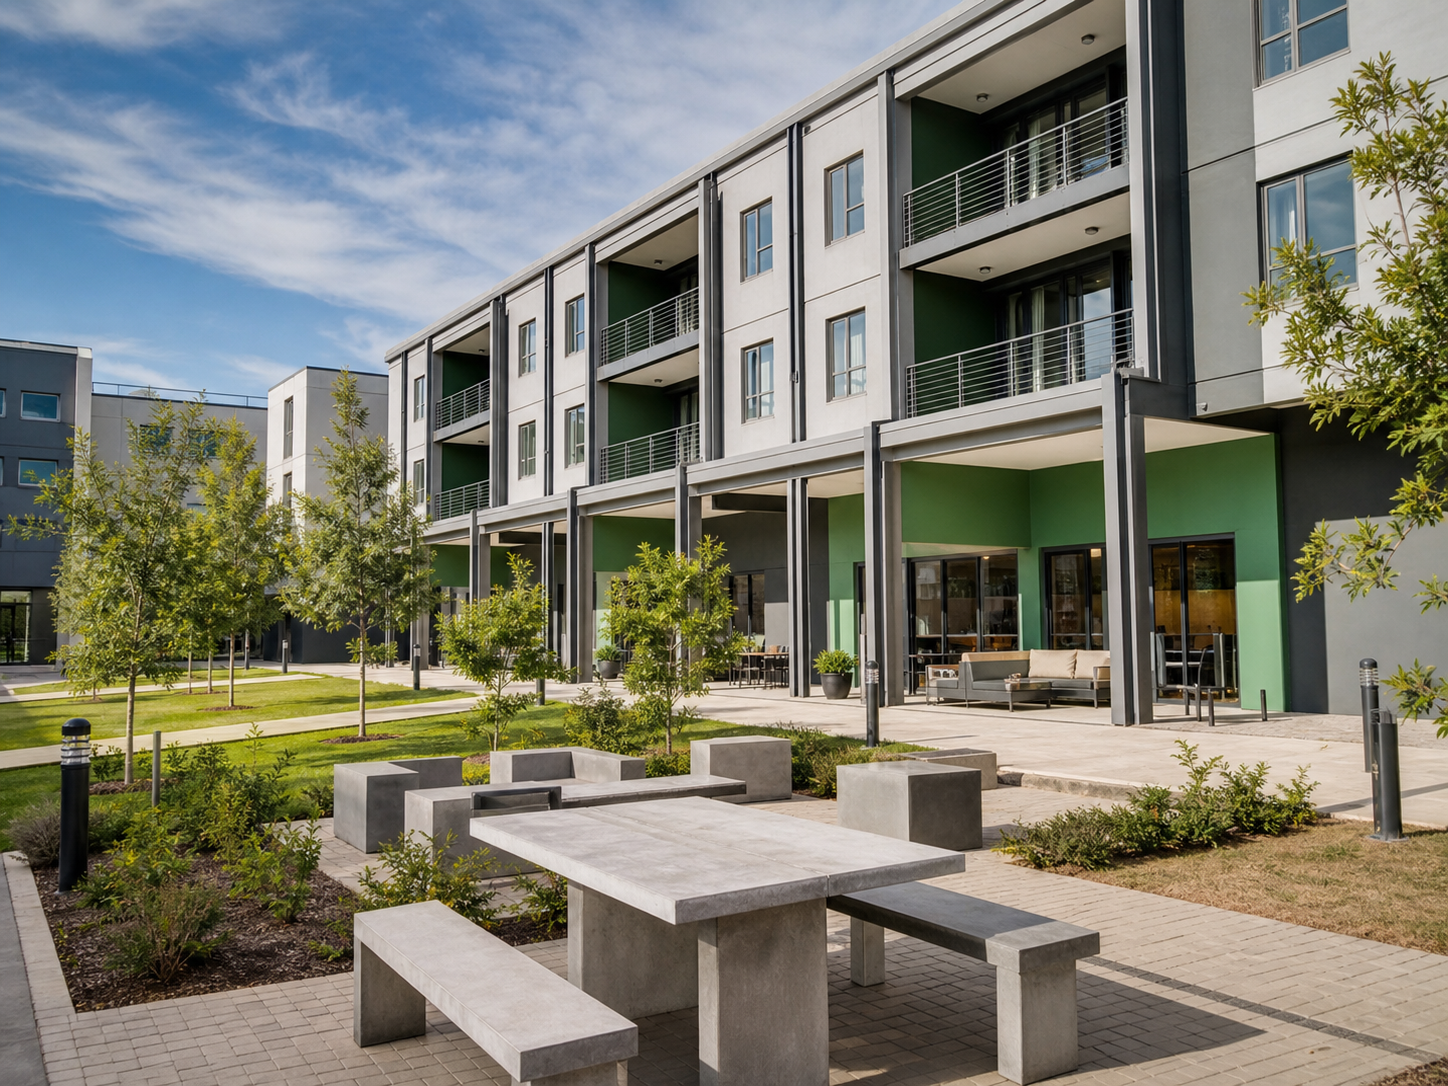
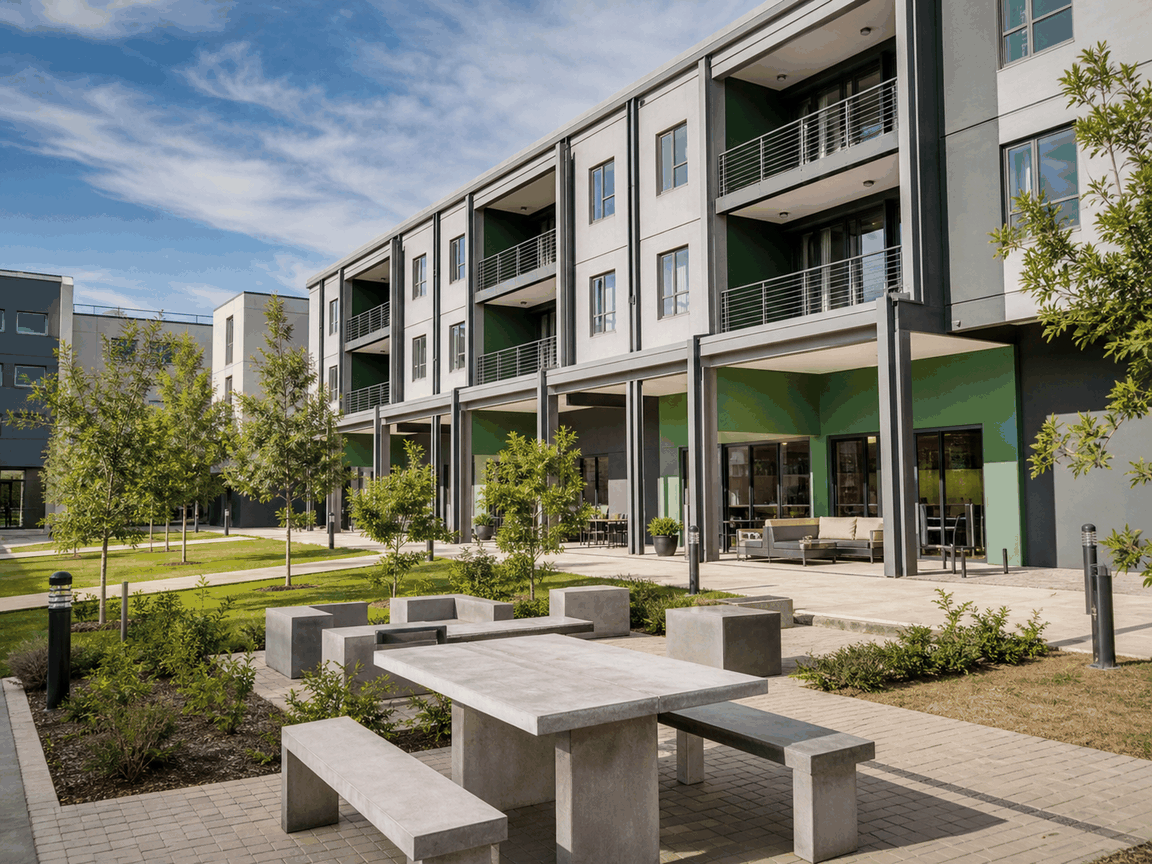
Optimize UNINEST images and Western Cape location filtering

Changed region(s): [[0.875, 0.4688, 0.9062, 0.5312], [0.0, 0.4062, 0.0312, 0.4375], [0.0, 0.3438, 0.0312, 0.375]]

diff --git a/Landlord/listings.html b/Landlord/listings.html
@@ -90,9 +90,71 @@
                 <input type="text" id="propertyLocation" name="location" maxlength="255" autocomplete="street-address" placeholder="Street number, street, suburb, city, postal code, country" required />
               </label>
 
+              <p class="listing-location-hint">Select the city and area for accurate student search results. Enter the full street address above for the map. Current focus: Western Cape.</p>
               <div class="field-pair">
-                <label>Suburb<input name="suburb" maxlength="100" autocomplete="address-level3" /></label>
-                <label>City<input name="city" maxlength="100" autocomplete="address-level2" /></label>
+                <label>City
+                  <select id="listingCityChoice" required aria-label="Listing city">
+                    <option value="">Select a city</option>
+                    <option>Cape Town</option><option>Stellenbosch</option><option>Paarl</option>
+                    <option>Wellington</option><option>George</option>
+                    <option value="__other">Other city...</option>
+                  </select>
+                  <input id="listingCityOther" type="text" maxlength="100" placeholder="Enter city" hidden />
+                  <input id="listingCityValue" type="hidden" name="city" value="" />
+                </label>
+                <label>Area / suburb
+                  <select id="listingSuburbChoice" required aria-label="Listing area or suburb">
+                    <option value="">Select an area</option>
+                    <optgroup label="Cape Town City Bowl & Atlantic Seaboard">
+                      <option>Cape Town City Centre (CBD)</option>
+                      <option>Foreshore</option>
+                      <option>Zonnebloem (District Six)</option>
+                      <option>Woodstock</option>
+                      <option>Gardens</option>
+                      <option>Vredehoek</option>
+                      <option>Oranjezicht</option>
+                      <option>Green Point</option>
+                      <option>Sea Point</option>
+                    </optgroup>
+                    <optgroup label="Cape Town Southern Suburbs">
+                      <option>Salt River</option>
+                      <option>Observatory</option>
+                      <option>Mowbray</option>
+                      <option>Rosebank</option>
+                      <option>Rondebosch</option>
+                      <option>Newlands</option>
+                      <option>Claremont</option>
+                      <option>Kenilworth</option>
+                      <option>Wynberg</option>
+                    </optgroup>
+                    <optgroup label="Cape Town Northern Suburbs">
+                      <option>Bellville</option>
+                      <option>Bellville South</option>
+                      <option>Belhar</option>
+                      <option>Parow</option>
+                      <option>Oakdale</option>
+                      <option>Goodwood</option>
+                      <option>Tygervalley</option>
+                      <option>Durbanville</option>
+                    </optgroup>
+                    <optgroup label="Cape Town West Coast & Helderberg">
+                      <option>Milnerton</option>
+                      <option>Table View</option>
+                      <option>Parklands</option>
+                      <option>Somerset West</option>
+                      <option>Strand</option>
+                    </optgroup>
+                    <optgroup label="Greater Western Cape (Outside Cape Town)">
+                      <option>Stellenbosch</option>
+                      <option>Paarl</option>
+                      <option>Wellington</option>
+                      <option>George</option>
+                    </optgroup>
+                    <option value="__other">Other area...</option>
+                  </select>
+                  <input id="listingSuburbOther" type="text" maxlength="100" placeholder="Enter suburb or area" hidden />
+                  <input id="listingSuburbValue" type="hidden" name="suburb" value="" />
+                </label>
               </div>
               <label>Distance to campus<span class="input-unit suffix"><input name="campusDistance" type="number" min="0" max="99999.99" step="0.01" /><span>km</span></span></label>
               <div id="listingAddressMap"></div>
@@ -177,6 +239,63 @@
     </div>
 
     <script src="script.js"></script>
+    <script>
+    (() => {
+      const form = document.getElementById('propertyForm');
+      if (!form) return;
+      for (const key of ['City', 'Suburb']) {
+        const choice = document.getElementById('listing' + key + 'Choice');
+        const other = document.getElementById('listing' + key + 'Other');
+        const stored = document.getElementById('listing' + key + 'Value');
+        const sync = () => {
+          const custom = choice.value === '__other';
+          other.hidden = !custom;
+          other.required = custom;
+          other.disabled = !custom;
+          const value = (custom ? other.value : choice.value).trim();
+          if (stored.value !== value) {
+            stored.value = value;
+            stored.dispatchEvent(new Event('input', { bubbles: true }));
+          }
+        };
+        const restore = () => {
+          const saved = stored.value.trim();
+          const match = Array.from(choice.options).find(o => o.value === saved && saved);
+          choice.value = match ? saved : saved ? '__other' : '';
+          other.value = match ? '' : saved;
+          sync();
+        };
+        choice.addEventListener('change', () => {
+          // The four Cape Town regions belong to Cape Town; outside towns
+          // use their own city names. Keep the street address independent.
+          if (key === 'Suburb' && choice.value && choice.value !== '__other') {
+            const outside = new Set(['Stellenbosch', 'Paarl', 'Wellington', 'George']);
+            const inferredCity = outside.has(choice.value) ? choice.value : 'Cape Town';
+            const cityChoice = document.getElementById('listingCityChoice');
+            const cityValue = document.getElementById('listingCityValue');
+            if (cityValue.value !== inferredCity) {
+              cityChoice.value = inferredCity;
+              cityChoice.dispatchEvent(new Event('change'));
+            }
+          }
+          sync();
+          if (choice.value === '__other') other.focus();
+        });
+        other.addEventListener('input', sync);
+        form.addEventListener('listing:loaded', restore);
+        form.addEventListener('reset', () => setTimeout(() => { stored.value = ''; restore(); }, 0));
+        restore();
+      }
+      form.addEventListener('submit', e => {
+        if (!form.elements.city.value.trim() || !form.elements.suburb.value.trim()) {
+          e.preventDefault();
+          e.stopImmediatePropagation();
+          const empty = !form.elements.city.value.trim() ? 'City' : 'Suburb';
+          document.getElementById('listing' + empty + 'Choice').focus();
+        }
+      }, true);
+    })();
+    </script>
     <script src="gallery-upload.js"></script>
     <script src="../maps.js"></script>
     <script src="../portal-identity.js?v=20260822-auth"></script>

diff --git a/HomePage/search.html b/HomePage/search.html
@@ -90,6 +90,52 @@
 
           <select id="locationFilter">
             <option value="">All areas</option>
+            <option>Cape Town</option>
+            <optgroup label="Cape Town City Bowl & Atlantic Seaboard">
+              <option>Cape Town City Centre (CBD)</option>
+              <option>Foreshore</option>
+              <option>Zonnebloem (District Six)</option>
+              <option>Woodstock</option>
+              <option>Gardens</option>
+              <option>Vredehoek</option>
+              <option>Oranjezicht</option>
+              <option>Green Point</option>
+              <option>Sea Point</option>
+            </optgroup>
+            <optgroup label="Cape Town Southern Suburbs">
+              <option>Salt River</option>
+              <option>Observatory</option>
+              <option>Mowbray</option>
+              <option>Rosebank</option>
+              <option>Rondebosch</option>
+              <option>Newlands</option>
+              <option>Claremont</option>
+              <option>Kenilworth</option>
+              <option>Wynberg</option>
+            </optgroup>
+            <optgroup label="Cape Town Northern Suburbs">
+              <option>Bellville</option>
+              <option>Bellville South</option>
+              <option>Belhar</option>
+              <option>Parow</option>
+              <option>Oakdale</option>
+              <option>Goodwood</option>
+              <option>Tygervalley</option>
+              <option>Durbanville</option>
+            </optgroup>
+            <optgroup label="Cape Town West Coast & Helderberg">
+              <option>Milnerton</option>
+              <option>Table View</option>
+              <option>Parklands</option>
+              <option>Somerset West</option>
+              <option>Strand</option>
+            </optgroup>
+            <optgroup label="Greater Western Cape (Outside Cape Town)">
+              <option>Stellenbosch</option>
+              <option>Paarl</option>
+              <option>Wellington</option>
+              <option>George</option>
+            </optgroup>
           </select>
         </div>
 

diff --git a/Landlord/listing-form.css b/Landlord/listing-form.css
@@ -47,3 +47,6 @@
 .photo-count { margin:0; color:#42594e; font-size:14px; }
 #listingStatus { white-space:normal; overflow-wrap:anywhere; }
 @media(max-width:599px) { #propertyForm .field-pair { grid-template-columns:1fr; } #propertyForm .form-section { padding:16px; } .photo-thumbs { grid-template-columns:repeat(3,minmax(0,1fr)); } .classic-section.listing-editor { width:100%; } }
+
+#propertyForm .listing-location-hint { margin:0; color:#42594e; font-size:13px; line-height:1.5; }
+#propertyForm input[hidden] { display:none !important; }

diff --git a/HomePage/public-listings.js b/HomePage/public-listings.js
@@ -147,7 +147,7 @@
     const select = document.getElementById("locationFilter");
     if (!select || select.dataset.loaded === "true") return;
     (locations || []).forEach((location) => {
-      if (Array.from(select.options).some(option => option.value === location)) return;
+      if (Array.from(select.options).some(option => option.value.toLowerCase() === String(location).toLowerCase())) return;
       const option = document.createElement("option");
       option.value = location;
       option.textContent = location;

diff --git a/HomePage/java-servlets/com/uninest/servlets/publicpages/PublicListingsServlet.java b/HomePage/java-servlets/com/uninest/servlets/publicpages/PublicListingsServlet.java
@@ -54,17 +54,37 @@ public class PublicListingsServlet extends HttpServlet {
                 where.append("AND (LOWER(r.room_number) LIKE ? "
                         + "OR LOWER(r.location) LIKE ? "
                         + "OR LOWER(r.description) LIKE ? "
+                        + "OR LOWER(COALESCE(d.city, '')) LIKE ? "
+                        + "OR LOWER(COALESCE(d.suburb, '')) LIKE ? "
                         + "OR LOWER(REPLACE(r.room_type, '_', ' ')) LIKE ?) ");
                 String term = "%" + search.toLowerCase() + "%";
-                params.add(term);
-                params.add(term);
-                params.add(term);
-                params.add(term);
+                for (int i = 0; i < 6; i++) params.add(term);
             }
 
             if (!location.isEmpty()) {
-                where.append("AND LOWER(r.location) = ? ");
-                params.add(location.toLowerCase());
+                // Search canonical city/suburb values first. For older records with no
+                // structured fields, match a whole comma-separated address segment:
+                // "Bellville" must NOT match an address in "Bellville South".
+                String area = location.trim().toLowerCase(java.util.Locale.ROOT);
+                boolean city = "cape town".equals(area) || "stellenbosch".equals(area)
+                        || "paarl".equals(area) || "wellington".equals(area)
+                        || "george".equals(area);
+                where.append("AND (LOWER(TRIM(COALESCE(d.suburb, ''))) = ? ");
+                params.add(area);
+                if (city) {
+                    where.append("OR LOWER(TRIM(COALESCE(d.city, ''))) = ? ");
+                    params.add(area);
+                }
+                String normalizedAddress = "CONCAT(',', REPLACE(LOWER(TRIM(COALESCE(r.location, ''))), ', ', ','), ',')";
+                where.append("OR LOCATE(CONCAT(',', ?, ','), " + normalizedAddress + ") > 0 ");
+                params.add(area);
+                // Preserve the old Cape Town CBD label after switching to the clearer
+                // canonical name in the dropdown. Never rewrite saved listing data.
+                if ("cape town city centre (cbd)".equals(area)) {
+                    where.append("OR LOWER(TRIM(COALESCE(d.suburb, ''))) = 'cape town cbd' "
+                            + "OR LOCATE(',cape town cbd,', " + normalizedAddress + ") > 0 ");
+                }
+                where.append(") ");
             }
             if (!type.isEmpty()) {
                 where.append("AND r.room_type = ? ");
@@ -111,6 +131,7 @@ public class PublicListingsServlet extends HttpServlet {
                     + "WHERE rv.room_id = r.room_id AND rv.review_type = 'room_review') AS rating_count, "
                     + "GROUP_CONCAT(a.amenity_name ORDER BY a.amenity_name SEPARATOR ', ') AS amenities "
                     + "FROM rooms r "
+                    + "LEFT JOIN listing_details d ON d.room_id = r.room_id "
                     + "LEFT JOIN room_amenities ra ON ra.room_id = r.room_id "
                     + "LEFT JOIN amenities a ON a.amenity_id = ra.amenity_id "
                     + where
@@ -151,7 +172,8 @@ public class PublicListingsServlet extends HttpServlet {
     }
 
     private int countListings(Connection conn, String where, List<Object> params) throws SQLException {
-        String query = "SELECT COUNT(*) FROM rooms r " + where;
+        String query = "SELECT COUNT(*) FROM rooms r "
+                + "LEFT JOIN listing_details d ON d.room_id = r.room_id " + where;
         PreparedStatement stmt = conn.prepareStatement(query);
         bindParams(stmt, params, 1);
         ResultSet rs = stmt.executeQuery();
@@ -210,8 +232,12 @@ public class PublicListingsServlet extends HttpServlet {
     private void writeFilterOptions(PrintWriter out, Connection conn) throws SQLException {
         out.print("\"locations\":[");
         try (PreparedStatement stmt = conn.prepareStatement(
-                "SELECT DISTINCT location FROM rooms WHERE approval_status = 'approved' "
-                        + "AND availability_status = 'available' AND location IS NOT NULL ORDER BY location");
+                "SELECT area FROM ("
+                        + "SELECT TRIM(d.city) AS area FROM rooms r JOIN listing_details d ON d.room_id=r.room_id "
+                        + "WHERE r.approval_status='approved' AND r.availability_status='available' "
+                        + "UNION SELECT TRIM(d.suburb) AS area FROM rooms r JOIN listing_details d ON d.room_id=r.room_id "
+                        + "WHERE r.approval_status='approved' AND r.availability_status='available'"
+                        + ") available_areas WHERE area IS NOT NULL AND area <> '' ORDER BY area");
              ResultSet rs = stmt.executeQuery()) {
             boolean first = true;
             while (rs.next()) {

diff --git a/src/test/java/com/uninest/DemoImageChecks.java b/src/test/java/com/uninest/DemoImageChecks.java
@@ -52,7 +52,7 @@ public class DemoImageChecks {
             java.awt.image.BufferedImage image=ImageIO.read(new ByteArrayInputStream(bytes));
             check(image!=null&&image.getWidth()<=1200,"demo image decodes");
             int white=0,black=0,y=image.getHeight()/2;
-            for(int row=y-25;row<y+25;row++)for(int x=0;x<image.getWidth();x++){int rgb=image.getRGB(x,row)&0xffffff;if(rgb==0)black++;if(rgb==0xffffff)white++;}
+            for(int row=y-25;row<y+25;row++)for(int x=0;x<image.getWidth();x++){int rgb=image.getRGB(x,row)&0xffffff;if(((rgb>>16)&255)<25 && ((rgb>>8)&255)<25 && (rgb&255)<25)black++;if(((rgb>>16)&255)>235 && ((rgb>>8)&255)>235 && (rgb&255)>235)white++;}
             check(black>1000&&white>100,"visible black/white watermark banner");
         }
         System.out.println("PASS: "+checks+" demo-image packaging, path, watermark and preservation checks");

diff --git a/Admin/src/java/com/uninest/utils/DemoPropertyImages.java b/Admin/src/java/com/uninest/utils/DemoPropertyImages.java
@@ -63,7 +63,7 @@ public final class DemoPropertyImages {
                 g.drawString(LABEL, (width - fm.stringWidth(LABEL)) / 2, y + 12 + fm.getAscent());
             } finally { g.dispose(); }
             ByteArrayOutputStream bytes = new ByteArrayOutputStream();
-            if (!ImageIO.write(output, "png", bytes)) throw new IOException("Demo image encoding failed");
+            if (!ImageIO.write(output, "jpeg", bytes)) throw new IOException("Demo image encoding failed");
             cached = bytes.toByteArray();
             CACHE.put(resource, cached); // At most three public, watermarked assets; never uploaded images.
             return cached;

diff --git a/Landlord/java-servlets/com/uninest/servlets/landlord/PropertyImageServlet.java b/Landlord/java-servlets/com/uninest/servlets/landlord/PropertyImageServlet.java
@@ -41,7 +41,7 @@ public class PropertyImageServlet extends HttpServlet {
             byte[] demo;
             try { demo = DemoPropertyImages.labelledImage(getServletContext(), fileName); }
             catch (IOException e) { getServletContext().log("Bundled demo image unavailable", e); response.sendError(404); return; }
-            response.setContentType("image/png");
+            response.setContentType("image/jpeg");
             response.setHeader("X-Content-Type-Options", "nosniff");
             response.setHeader("Cache-Control", "private, no-store");
             response.setHeader("X-UniNest-Demo-Photo", "true");
